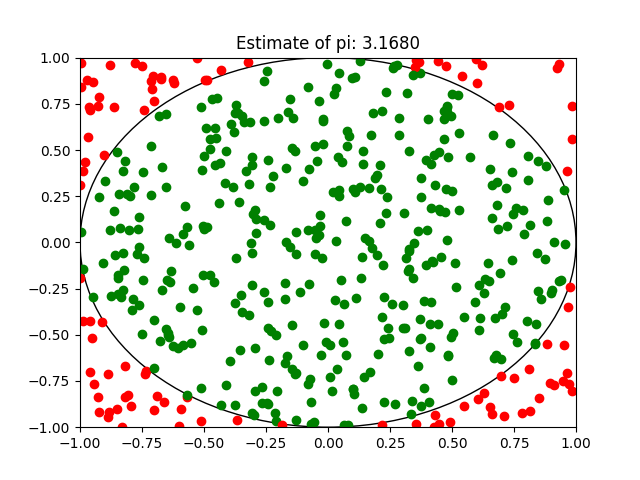
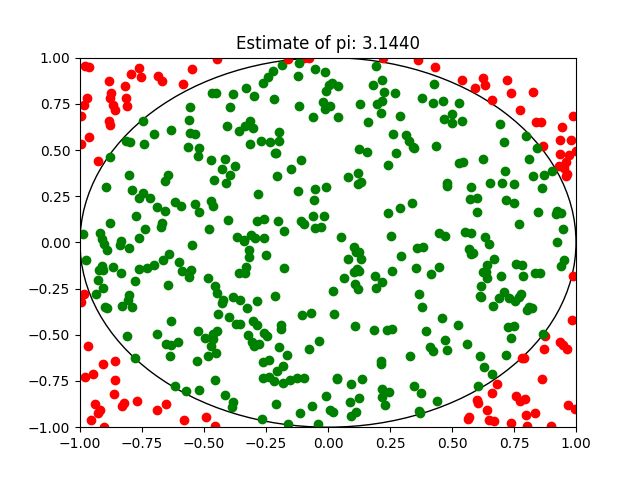
Convert python scripts so that they use sys.argv for filenames

Changed region(s): [[0.125, 0.0625, 0.9062, 0.9062], [0.8438, 0.125, 0.9062, 0.1562]]

diff --git a/v1-python/draw-figure.py b/v1-python/draw-figure.py
@@ -1,8 +1,9 @@
+import sys
 import matplotlib.pyplot as plt
 
-darts = open('darts.txt', 'r')
-inside = open('inside.txt', 'r')
-estimate_file = open('estimate.txt', 'r')
+darts = open(sys.argv[1], 'r')
+inside = open(sys.argv[2], 'r')
+estimate_file = open(sys.argv[3], 'r')
 
 # Plot circle.
 figure, axes = plt.subplots()
@@ -29,7 +30,6 @@ plt.axis([-1, 1, -1, 1])
 estimate = float(estimate_file.readline())
 
 plt.title('Estimate of pi: %5.4f' % estimate)
-plt.savefig('Estimate_of_pi.png')
-plt.show(block=True)
+plt.savefig(sys.argv[4])
 darts.close()
 inside.close()

diff --git a/v1-python/estimate.py b/v1-python/estimate.py
@@ -1,19 +1,19 @@
 # -*- coding: utf-8 -*-
+
+import sys
+
 """
 Created on Tue Aug 18 18:27:34 2020
 
 @author: id318
 """
 
-inside = open('inside.txt', 'r')
-estimate_file = open('estimate.txt', 'w+')
+inside = open(sys.argv[1], 'r')
 count_inside = 0.0
 count_lines = 0.0
 for line in inside:
     count_inside = count_inside + int(line)
     count_lines = count_lines + 1
 estimate = 4*count_inside/count_lines
-estimate_file.write('%f' % estimate)
-print('Estimate of pi is', estimate)
-estimate_file.close()
+sys.stdout.write('%f' % estimate)
 inside.close()

diff --git a/v1-python/count-inside.py b/v1-python/count-inside.py
@@ -1,13 +1,12 @@
-darts = open('darts.txt', 'r')
-inside = open('inside.txt', 'w+')
+import sys
+darts = open(sys.argv[1], 'r')
 r2 = 1 # Radius of circle
 for line in darts:
     xval, yval = line.split(' ') # Extract dart from darts.txt.
     x = float(xval)
     y = float(yval)
     if x*x + y*y < r2: # If dart is within circle then write 1
-        inside.write('1\n')
+        sys.stdout.write('1\n')
     else: #If dart is outside cirlce then write 0
-        inside.write('0\n')
+        sys.stdout.write('0\n')
 darts.close()
-inside.close()

diff --git a/v1-python/throw-darts.py b/v1-python/throw-darts.py
@@ -1,3 +1,4 @@
+import sys
 from random import random
 
 # Extract the number of darts to be thrown from inputs.dat
@@ -9,9 +10,7 @@ for line in inputs:
 inputs.close()
 
 # Throw n darts uniformly over range [-1,1]x[-1,1]
-darts = open('darts.txt','w+')
 for loop in range(n):
     x = 2*random()-1 # Pick x co-ordinate.
     y = 2*random()-1 # Pick y co-ordinate.
-    darts.write('%.7f %.7f\n' % (x,y)) # Write position of dart to darts.txt
-darts.close()
+    sys.stdout.write('%.7f %.7f\n' % (x,y)) # Write position of dart to darts.txt
